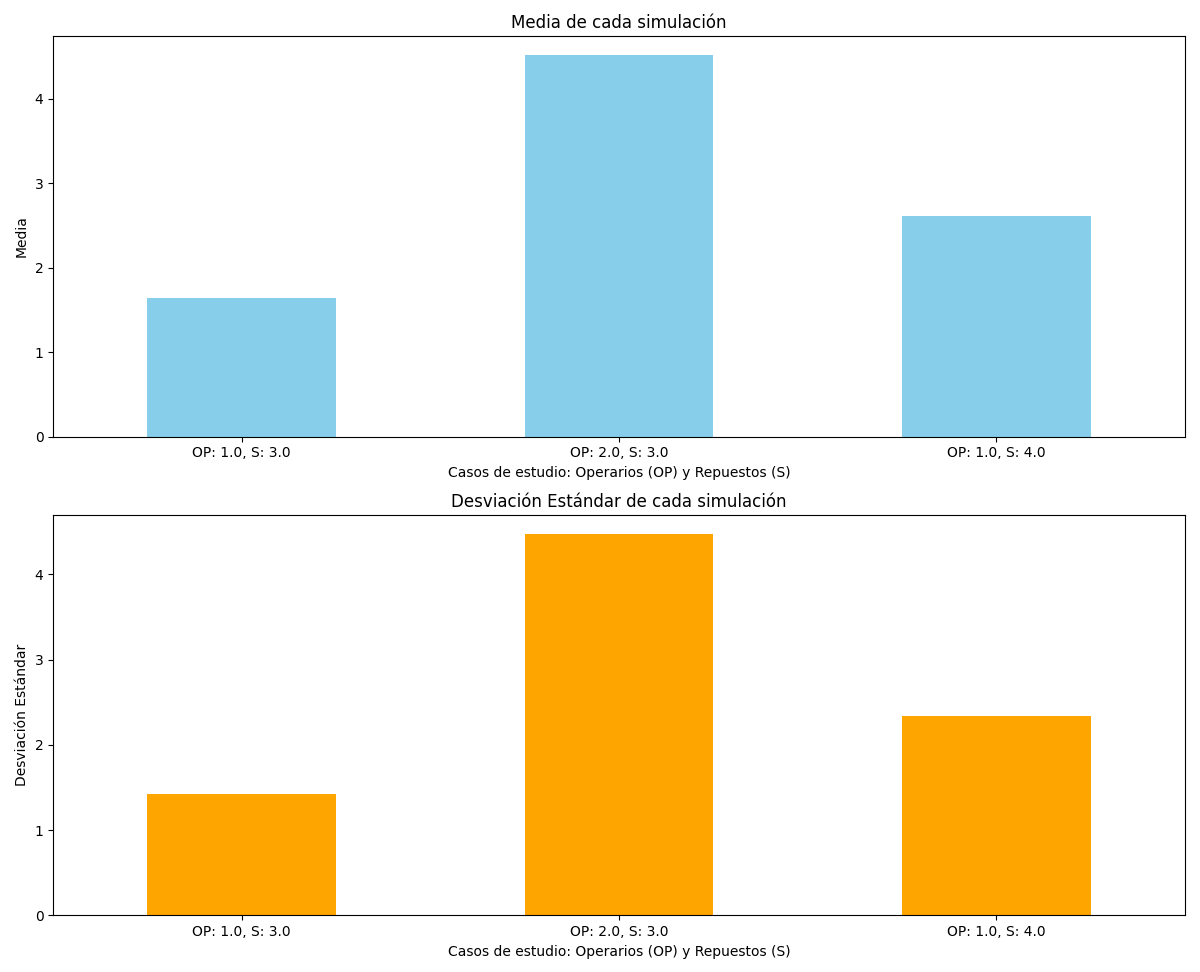
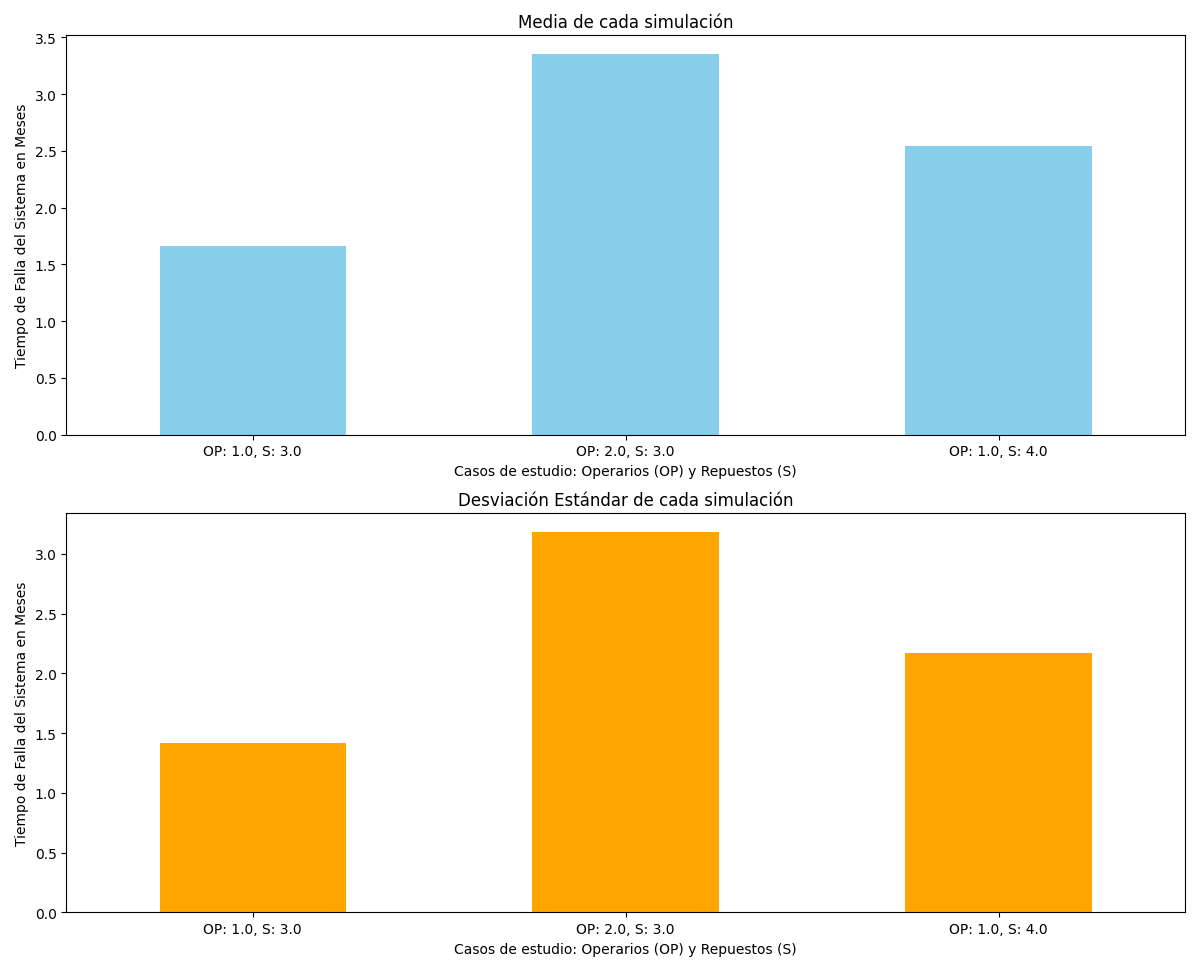
Correciones informe y graficos

diff --git a/Hubmann-PereyraCarrillo.py b/Hubmann-PereyraCarrillo.py
@@ -38,8 +38,7 @@ def sistema_rep_gen(N, S, OP):
             sim_time = repaird_moment[min_repair_position]
             repaird_moment[min_repair_position] = np.inf
 
-        if avaiable_op > 0 and (to_repair > OP-avaiable_op):
-
+        if avaiable_op > 0 and (to_repair > OP - avaiable_op):
             # Hay maquinas para reparar y el operario esta libre
             max_position = repaird_moment.index(max(repaird_moment))
             repaird_moment[max_position] = sim_time - (1/8 * math.log(random()))
@@ -65,24 +64,24 @@ def statics(N,S,OP):
     esperanza = sum/ n_sim
     varianza = (sum_cuadrados/n_sim - esperanza**2)
     print(F"\nCaso de estudio con {OP} operarios, {N} maquinas en uso y {S} repuestos")
-    print(f"Esperanza: {esperanza}")
-    print(f"Varianza: {varianza}")
-    print(f"Desviacion estandar: {np.sqrt(varianza)}")
+    print(f"Esperanza: {esperanza} meses")
+    print(f"Varianza: {varianza} meses")
+    print(f"Desviacion estandar: {np.sqrt(varianza)} meses")
     print('------------------------')
     return esperanza, np.sqrt(varianza), results
 
 
 casos_de_estudio = [[7,3,1], [7,3,2], [7,4,1]]
 results = []    # used for making the graph of the esperanza and desviación estandar
-xticks_values = [(16,1),(36,4),(20,2)]
+xticks_values = [(16,1),(36,2),(24,1)]
 i = 0
 for value in casos_de_estudio:
     esperanza, desviacion_estandar, sim_result = statics(*value)
     # This will graph the results of each simualtion
     plt.figure(figsize=(10, 6))
-    plt.hist(sim_result, bins=100, alpha=0.75, color='skyblue', edgecolor='black')
-    plt.title(f'Histograma de Resultados - N: {value[0]}, OP: {value[2]}, S: {value[1]}')
-    plt.xlabel('Tiempo de Simulación')
+    plt.hist(sim_result, bins=150, alpha=0.75, color='skyblue', edgecolor='black')
+    plt.title(f'Histograma de Resultados con - N: {value[0]}, OP: {value[2]}, S: {value[1]}')
+    plt.xlabel('Tiempo de Falla del Sistema en Meses')
     plt.ylabel('Frecuencia')
     plt.grid(True, which='both', linestyle='--', linewidth=0.5)
     plt.xticks(range(0, xticks_values[i][0], xticks_values[i][1]))
@@ -103,14 +102,14 @@ fig, ax = plt.subplots(2, 1, figsize=(12, 10))
 # Media plot
 df.plot(kind='bar', x='Label', y='Media', ax=ax[0], legend=False, color='skyblue')
 ax[0].set_title('Media de cada simulación')
-ax[0].set_ylabel('Media')
+ax[0].set_ylabel('Tiempo de Falla del Sistema en Meses')
 ax[0].set_xlabel('Casos de estudio: Operarios (OP) y Repuestos (S)')
 ax[0].tick_params(axis='x', rotation=0)
 
 # Desviación Estándar plot
 df.plot(kind='bar', x='Label', y='Desviación Estándar', ax=ax[1], legend=False, color='orange')
 ax[1].set_title('Desviación Estándar de cada simulación')
-ax[1].set_ylabel('Desviación Estándar')
+ax[1].set_ylabel('Tiempo de Falla del Sistema en Meses')
 ax[1].set_xlabel('Casos de estudio: Operarios (OP) y Repuestos (S)')
 ax[1].tick_params(axis='x', rotation=0)
 

diff --git a/Informe.md b/Informe.md
@@ -1,69 +1,69 @@
- # Trabajo Practico Especial - Simulación de sistema
- 
- ## Introducción:
- En el presente trabajo se aborda la problemática de maximizar el tiempo de vida del sistema de cajas registradoras de un supermercado. Para ello se simularan los siguientes casos de estudio:
- 
- - 1 operarios, 7 maquinas en uso y 3 repuestos
- - 2 operarios, 7 maquinas en uso y 3 repuestos
- - 1 operarios, 7 maquinas en uso y 4 repuestos
- 
- Se tomaran metricas de los resultados de estos casos (Esperanza, Desviacion Estandar) para su posterior analisis y asi determinar cual es el sistema que mejor se adapta a las necesidades del supermercado.
- 
- ## Algoritmo y descripción de las Variables:
- 
- ### Constantes y variables utilizadas dentro del algoritmo
-- **N**: *Numero de cajas registradoras en servicio*
-- **S:** *Numero de cajas en reservas al inicio de la simulacion*
-- **OP:** *Numero de operarios al inicio de la simulaciòn*
-- **avaiable**: *Numero de cajas disponibles en un momento dado de la simulacion*
-- **avaiable_op**: *Operarios disponibles en un momento dado de la simulacion*
-- **to_repair**: *Cajas a reparar en un momento dado de la simulacion*
-- **break_moment**: *Lista de los tiempos en los que las cajas en servicio tendran defectos*
-- **repaird_moment**: *Momento en el que los operarios terminan de reparar las cajas defectuosas*
-- **sim_time**: *Denota el paso del tiempo dentro de la simulacion*
-- **min_repair_position**: *posicion del tiempo de reparacion mas proximo*
-- **min_break_position**: * posicion del tiempo de ruptura mas proximo*
- 
- 
- ## Explicación Algoritmo
- Las ideas principales utilizadas para realizar la simulación se basaron en lo provisto por el Capítulo 6 del libro Simulación (Segunda Edición ed.) de S.Ross (1999).
- 
+# Trabajo Práctico Especial - Simulación de sistema
+
+## Introducción:
+En el presente trabajo se aborda la problemática de maximizar el tiempo de vida del sistema de cajas registradoras de un supermercado. Para ello se simularán los siguientes casos de estudio:
+
+- 1 operario, 7 máquinas en uso y 3 repuestos
+- 2 operarios, 7 máquinas en uso y 3 repuestos
+- 1 operario, 7 máquinas en uso y 4 repuestos
+
+Se tomarán métricas de los resultados de estos casos (Esperanza, Desviación Estándar) para su posterior análisis y así determinar cuál es el sistema que mejor se adapta a las necesidades del supermercado.
+
+## Algoritmo y descripción de las Variables:
+
+### Constantes y variables utilizadas dentro del algoritmo
+- **N**: *Número de cajas registradoras en servicio*
+- **S**: *Número de cajas en reserva al inicio de la simulación*
+- **OP**: *Número de operarios al inicio de la simulación*
+- **available**: *Número de cajas disponibles en un momento dado de la simulación*
+- **available_op**: *Operarios disponibles en un momento dado de la simulación*
+- **to_repair**: *Cajas a reparar en un momento dado de la simulación*
+- **break_moment**: *Lista de los tiempos en los que las cajas en servicio tendrán defectos*
+- **repaired_moment**: *Momento en el que los operarios terminan de reparar las cajas defectuosas*
+- **sim_time**: *Denota el paso del tiempo dentro de la simulación*
+- **min_repair_position**: *Posición del tiempo de reparación más próximo*
+- **min_break_position**: *Posición del tiempo de ruptura más próximo*
+
+## Explicación del Algoritmo
+Las ideas principales utilizadas para realizar la simulación se basaron en lo provisto por el Capítulo 6 del libro "Simulación" (Segunda Edición) de S. Ross (1999).
+
 - Simulación mediante eventos discretos
-- Sistema de linea de espera con un servidor
-- Sistema de linea de espera con dos servidores en paralelo
+- Sistema de línea de espera con un servidor
+- Sistema de línea de espera con dos servidores en paralelo
 
 El algoritmo **sistema_rep_gen** simula el tiempo de vida de un sistema de cajas registradoras en un supermercado, considerando el número de operarios y la disponibilidad de repuestos.
-Consiste en ir avanzando en eventos discretos de 2 tipos (ocurrió un desperfecto o se termino de reparar una caja registradora). En función de cual es la categoria del proximo evento se actualizan los valores de las variables de la simulación hasta que se cumplen las condiciones de falla del sistema y devolvemos el valor *sim_time* el cual representa el tiempo total que duró la simulación
+Consiste en avanzar en eventos discretos de 2 tipos (ocurrió un desperfecto o se terminó de reparar una caja registradora). En función de cuál es la categoría del próximo evento, se actualizan los valores de las variables de la simulación hasta que se cumplen las condiciones de falla del sistema y devolvemos el valor *sim_time*, el cual representa el tiempo total que duró la simulación.
 
-#### Parámetros de Entrada
+### Parámetros de Entrada
 
+- N (int): Número de máquinas en uso.
+- S (int): Número de repuestos disponibles.
+- OP (int): Número de operarios disponibles.
 
-    N (int): Número de máquinas en uso.
-    S (int): Número de repuestos disponibles.
-    OP (int): Número de operarios disponibles.
+### Variables Iniciales
 
-#### Variables Iniciales
+- **available = N + S**: Cajas disponibles.
+- **available_op = OP**: Operarios.
 
-    avaiable = N + S  # Cajas disponibles
-    avaiable_op = OP  # Operarios 
+### Cajas a Reparar:
 
-#### Cajas a Reparar:
+- **to_repair = 0**: Cajas a reparar.
 
-    to_repair = 0  # Cajas a reparar
+### Tiempos de Falla y Reparación:
 
-#### Tiempos de Falla y Reparación:
+- **break_moment = []**: Lista de los tiempos en los que las cajas tuvieron defectos.
+- **repaired_moment = []**: Momento en el que los operarios terminan de reparar las cajas.
 
-    break_moment = []  # Lista de los tiempos en los que las cajas tuvieron defectos
-    repaird_moment = [] # Momento en el que los operarios terminan de reparar las cajas
+### Tiempo de Simulación:
 
-#### Tiempo de Simulación:
-    sim_time = 0 # Denota el paso del tiempo dentro de la simulacion
-#### Inicialización de Tiempos de Reparación
+- **sim_time = 0**: Denota el paso del tiempo dentro de la simulación.
+
+### Inicialización de Tiempos de Reparación
 
 Para cada operario, se establece un tiempo de reparación infinito inicialmente:
 
     for _ in range(OP):
-        repaird_moment.append(np.inf)
+        repaired_moment.append(np.inf)
 
 #### Generación de Tiempos de Falla
 
@@ -76,110 +76,102 @@ Se generan N tiempos exponenciales de falla para las máquinas en uso:
 
 El bucle se ejecuta mientras el número de cajas disponibles sea mayor o igual a N:
 
-    while avaiable >= N:
+    while available >= N:
 
 #### Determinación de la Próxima Acción:
-Encuentra las posiciones de la máquina con el menor tiempo de reparación y la máquina con el menor tiempo de falla:
+Obtenemos los tiempos más próximos de cada tipo de evento, se terminó de reparar una máquina o una máquina sufrió un desperfecto. Luego se comparan esos tiempos para decidir cuál de los dos es el próximo evento a ocurrir en la simulación.
 
-    min_repair_position = repaird_moment.index(min(repaird_moment))
+    min_repair_position = repaired_moment.index(min(repaired_moment))
     min_break_position = break_moment.index(min(break_moment))
 
-#### Comparación de Tiempos:
-Si el próximo evento es una falla:
+    if break_moment[min_break_position] <= repaired_moment[min_repair_position]:
 
-    if break_moment[min_break_position] <= repaird_moment[min_repair_position]:
-
+#### Si el próximo evento es una falla:
 Aumenta el conteo de máquinas a reparar.
 Reduce el número de cajas disponibles.
-Actualiza el tiempo de simulación y genera un nuevo tiempo de falla para la máquina.
+Actualiza el tiempo de simulación y genera un nuevo tiempo de falla para la máquina que se comenzó a utilizar para reemplazar a la que se averió.
 
     to_repair += 1
-    avaiable -= 1
+    available -= 1
     sim_time = break_moment[min_break_position]
     break_moment[min_break_position] = sim_time - math.log(random())
 
 #### Si el próximo evento es una reparación:
 Disminuye el conteo de máquinas a reparar.
 Aumenta el número de cajas y operarios disponibles.
-Actualiza el tiempo de simulación y establece el tiempo de reparación de la máquina a infinito.
+Actualiza el tiempo de simulación y establece el tiempo hasta que ese operario termine de reparar la próxima máquina a infinito.
 
     to_repair -= 1
-    avaiable += 1
-    avaiable_op += 1
-    sim_time = repaird_moment[min_repair_position]
-    repaird_moment[min_repair_position] = np.inf
+    available += 1
+    available_op += 1
+    sim_time = repaired_moment[min_repair_position]
+    repaired_moment[min_repair_position] = np.inf
 
 #### Asignación de Reparaciones:
 
-Si hay máquinas para reparar y operarios disponibles, asigna una reparación:
+Revisamos si hay operarios disponibles y si el número de máquinas a reparar es mayor que el número de operarios reparando una máquina en el momento.
 
-    if avaiable_op > 0 and to_repair > 0:
+    if available_op > 0 and (to_repair > OP - available_op):
 
-Encuentra la posición del tiempo de reparación máximo y asigna un nuevo tiempo de reparación.
-Reduce el número de operarios disponibles.
+Si se cumple esta condición tomamos un operario que esté libre (el que tenga el mayor tiempo de reparación ya que este será infinito si no está reparando ninguna máquina) y le asignamos un nuevo tiempo de reparación, reduciendo el número de operarios disponibles.
 
-        max_position = repaird_moment.index(max(repaird_moment))
-        repaird_moment[max_position] = sim_time - (1/8 * math.log(random()))
-        avaiable_op -= 1
+        max_position = repaired_moment.index(max(repaired_moment))
+        repaired_moment[max_position] = sim_time - (1/8 * math.log(random()))
+        available_op -= 1
 
 #### Retorno del Resultado
 
-El algoritmo finaliza y retorna el tiempo de simulación:
-    
+El algoritmo finaliza cuando el número de cajas registradoras disponibles es menor que N y retorna el tiempo de simulación (tiempo en el que el supermercado dejó de ser operativo):
+
     return sim_time
 
+### Resultados:
 
-### Resultados: 
-#### Histogramas de Resultados
+A continuación, se presentan los resultados del tiempo hasta que el supermercado deja de ser operativo en meses de 10,000 simulaciones para cada caso de estudio.
+Las métricas obtenidas son la esperanza, varianza y desviación estándar para cada caso de estudio y un gráfico con los resultados de las distintas simulaciones:
 
-A continuación, se presentan los histogramas de los resultados de 10,000 simulaciones para cada caso de estudio:
-
-* Caso de Estudio 1: 1 Operario, 7 Máquinas en Uso y 3 Repuestos
-
-* Caso de Estudio 2: 2 Operarios, 7 Máquinas en Uso y 3 Repuestos
-
-* Caso de Estudio 3: 1 Operario, 7 Máquinas en Uso y 4 Repuestos
-
-#### Comparación de Métricas
-
-Se presentan las métricas obtenidas (esperanza, varianza, desviación estándar) para cada caso de estudio:
 ##### Caso de Estudio 1: 1 Operario, 7 Máquinas en Uso y 3 Repuestos
-![[study_case_1.png]]
-    Esperanza: 1.65
-    Varianza: 2.04
-    Desviación Estándar:  1.43
+![](study_case_1.png)
+   - Esperanza: 1.65 meses
+   - Varianza: 2.04 meses
+   - Desviación Estándar: 1.43 meses
 
 ##### Caso de Estudio 2: 2 Operarios, 7 Máquinas en Uso y 3 Repuestos
-![[study_case_2.png]]
-    Esperanza:  4.51
-    Varianza: 19.60
-    Desviación Estándar: 4.43
+![](study_case_2.png)
+   - Esperanza: 3.35 meses
+   - Varianza: 10.11 meses
+   - Desviación Estándar: 3.18 meses
 
 ##### Caso de Estudio 3: 1 Operario, 7 Máquinas en Uso y 4 Repuestos
-![[study_case_3.png]]
-    Esperanza: 2.61
-    Varianza: 5.13
-    Desviación Estándar: 2.26
+![](study_case_3.png)
+   - Esperanza: 2.60 meses
+   - Varianza: 5.06 meses
+   - Desviación Estándar: 2.25 meses
 
-A continuación se presenta un gráfico comparativo de las medias y desviaciones estándar de los tiempos de vida y desviación estándar del sistema para los tres casos de estudio:
+A continuación se presenta un gráfico comparativo de las medias y desviaciones estándar de los tiempos de vida del sistema para los tres casos de estudio:
 
 #### Gráfico de Medias y Desviaciones Estándar
-![[media_desviation_graph.png]]
+![](media_desviation_graph.png)
+
 #### Análisis de los Resultados
 
 Al comparar los tres casos de estudio, se observan las siguientes características sobresalientes:
 
-    Caso de Estudio 1:
-        Tiempo de vida promedio del sistema (esperanza) es el más bajo.
-        Varianza y desviación estándar son relativamente bajas, lo que indica menor variabilidad en los tiempos de vida.
+- Características Generales:
+  - Presentan valores extremos muy alejados de la esperanza.
+  - Tienen una alta frecuencia en los valores más bajos del gráfico.
 
-    Caso de Estudio 2:
-        Tiempo de vida promedio del sistema (esperanza) es el más alto.
-        Varianza y desviación estándar son significativamente altas, lo que indica una mayor variabilidad en los tiempos de vida.
+- Caso de Estudio 1:
+    - El tiempo de vida promedio del sistema (esperanza) es el más bajo.
+    - Su varianza y desviación estándar son relativamente bajas, lo que indica menor variabilidad en los tiempos de vida.
 
-    Caso de Estudio 3:
-        Tiempo de vida promedio del sistema (esperanza) es intermedio.
-        Varianza y desviación estándar también son intermedias, indicando una variabilidad moderada en los tiempos de vida.
+- Caso de Estudio 2:
+    - El tiempo de vida promedio del sistema (esperanza) es el más alto.
+    - La varianza y desviación estándar son significativamente altas, lo que indica una mayor variabilidad en los tiempos de vida.
+
+- Caso de Estudio 3:
+    - El tiempo de vida promedio del sistema (esperanza) es intermedio.
+    - La varianza y desviación estándar también son intermedias, indicando una variabilidad moderada en los tiempos de vida.
 
 ### Conclusión
 
